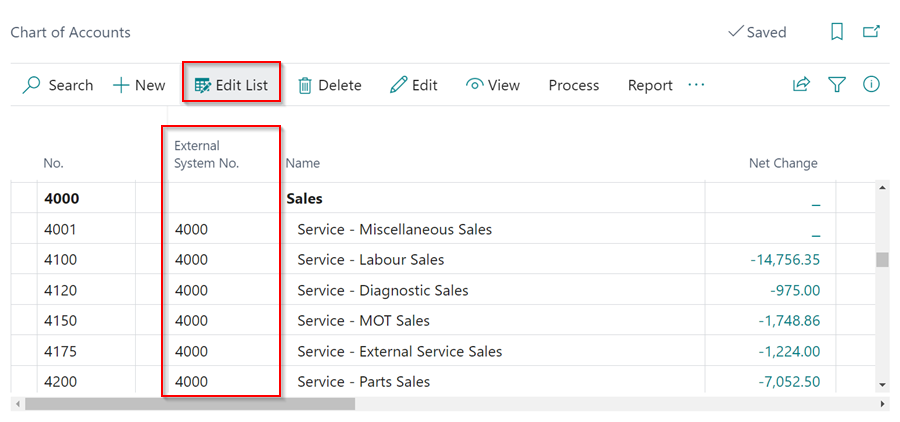
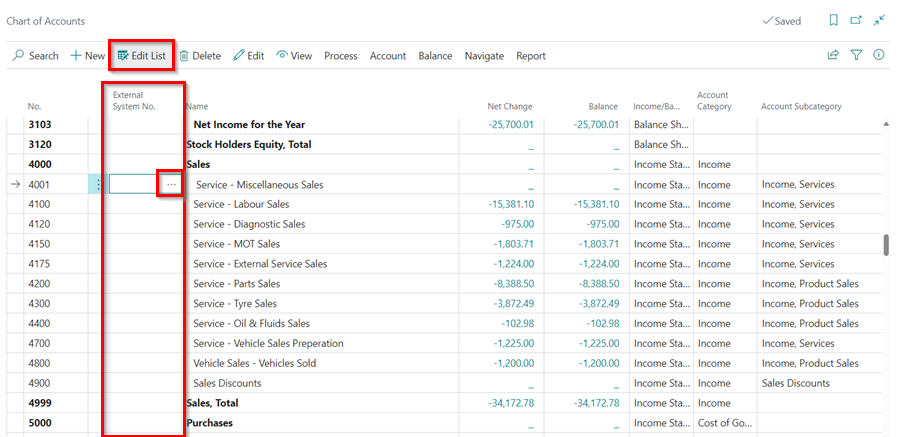
quickbooks publish

diff --git a/docs/garagehive-quickbooks-online-integration.md b/docs/garagehive-quickbooks-online-integration.md
@@ -54,7 +54,7 @@ To integrate the **Chart of Accounts** to **QuickBooks** accounting system:
    ![](media/garagehive-quickbooks-online-integration7.png)
 
 2. In the **Chart of Accounts** page, select **Edit List** from the menu bar.
-3. In the **External System No.** column, enter the account number for the accounts you want to integrate with the external system. In this case, we'll integrate all of the **4000s** accounts.
+3. In the **External System No.** column, click on the three dots to select the corresponding **Account** that you use in your external system. In this case, we'll integrate all of the **4000s** accounts.
 
    {% include tip.html title="Note" text="Typically only the 4000's and 5000's accounts are needed." %}
 
@@ -85,12 +85,12 @@ To add the **External System No.** to the **Payments Methods**:
    * **Export Customer Invoices/Credit Memos** - This will export all Customer invoices/credit memos for the given date range. 
    * **Export Customer Payments/Refunds** - This will export Invoice payments/refunds as well as payments to accounts within the specified date range.
    * **Export Vendor Invoices/Credit Memos** - This will export all posted purchase orders/purchase invoices as well as posted purchase return orders/purchase credit memos within the given date range.
-   * **Export Type** - All or New. You may either export **All** of the documents within the date range or only the **New** documents. Selecting **New** will exclude any previously exported documents. This implies that it is **important** that you keep all prior exported files secure since they will never be reproduced. When using **New**, a transaction that has already been exported will be flagged and will not be exported again.
+   * **Export Type** - All or New. You may either export **All** of the documents within the date range or only the **New** documents. Selecting **New** will exclude any previously exported documents. When using **New**, a transaction that has already been exported, will not be exported again.
    * **Date From** and **Date To** - Choose your date range.
 
 3. Under Catalogs:
-   * **Export All Customers** - This will generate an export of all customers in the system (**It is highly recommended that you never select this**).
-   * **Export All Vendors** - This will generate an export of all vendors in the system (**It is highly recommended that you never select this**).
+   * **Export All Customers** - This will generate an export of all customers in the system (**It is highly recommended that you do not select this**).
+   * **Export All Vendors** - This will generate an export of all vendors in the system (**It is highly recommended that you do not select this**).
 
 4. Click **OK**, to start exporting the data.
 
